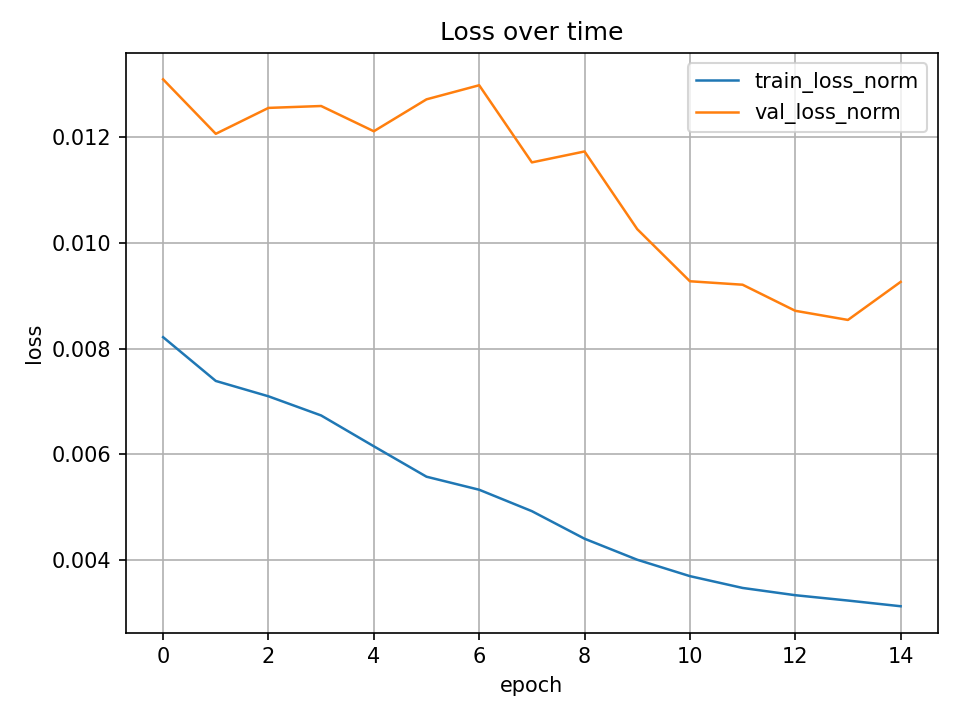
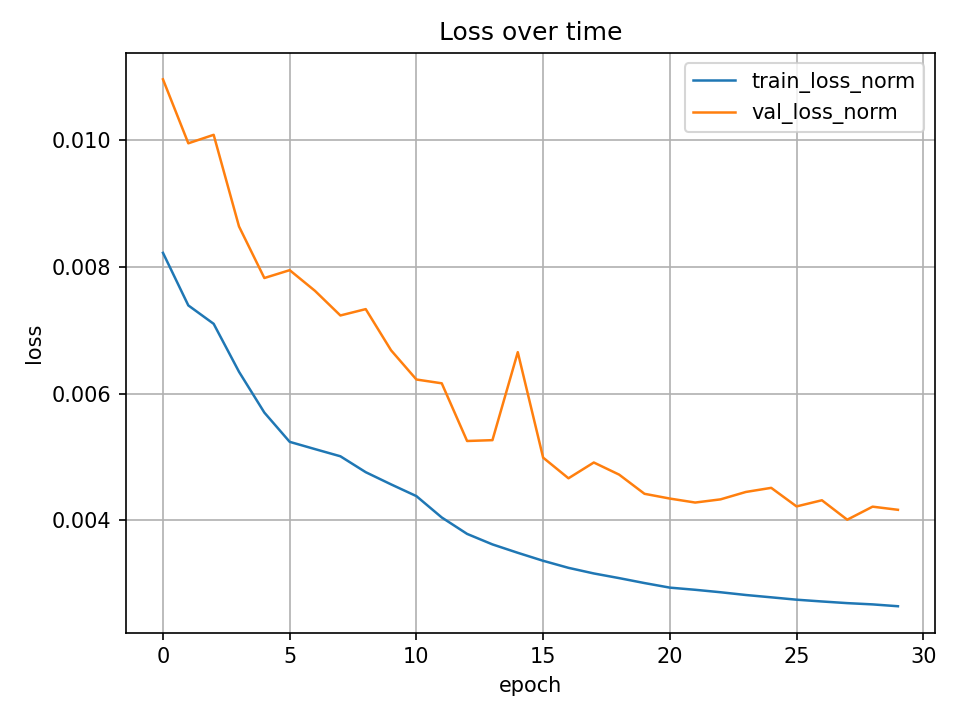
Transformer exp are done

diff --git a/Transformer_Map_Interp/argument_transformer.py b/Transformer_Map_Interp/argument_transformer.py
@@ -44,7 +44,7 @@ def parse_opt():
     parser.add_argument('--lr', type=float, default=1e-4, help='Learning rate.')
     parser.add_argument('--weight_decay', type=float, default=3e-4, help='Weight decay for the optimizer.')
     parser.add_argument('--epochs', type=int, default=15, help='Number of training epochs.')
-    parser.add_argument('--es_patience', type=int, default=7, help='Patience for early stopping.')
+    parser.add_argument('--es_patience', type=int, default=15, help='Patience for early stopping.')
     parser.add_argument('--batch_size', type=int, default=16, help='Batch size')
     
     parser.add_argument('--device', type=str, default="auto", help='Computation device.')

diff --git a/transformerRegressor_main.py b/transformerRegressor_main.py
@@ -23,7 +23,7 @@ if __name__ == "__main__":
     # args.use_posenc = False
     # args.batch_size = 64
     args.max_km = 0.75
-    args.epochs = 15
+    args.epochs = 30
     args.new_spread = False
     
     np.random.seed(args.random_seed)
